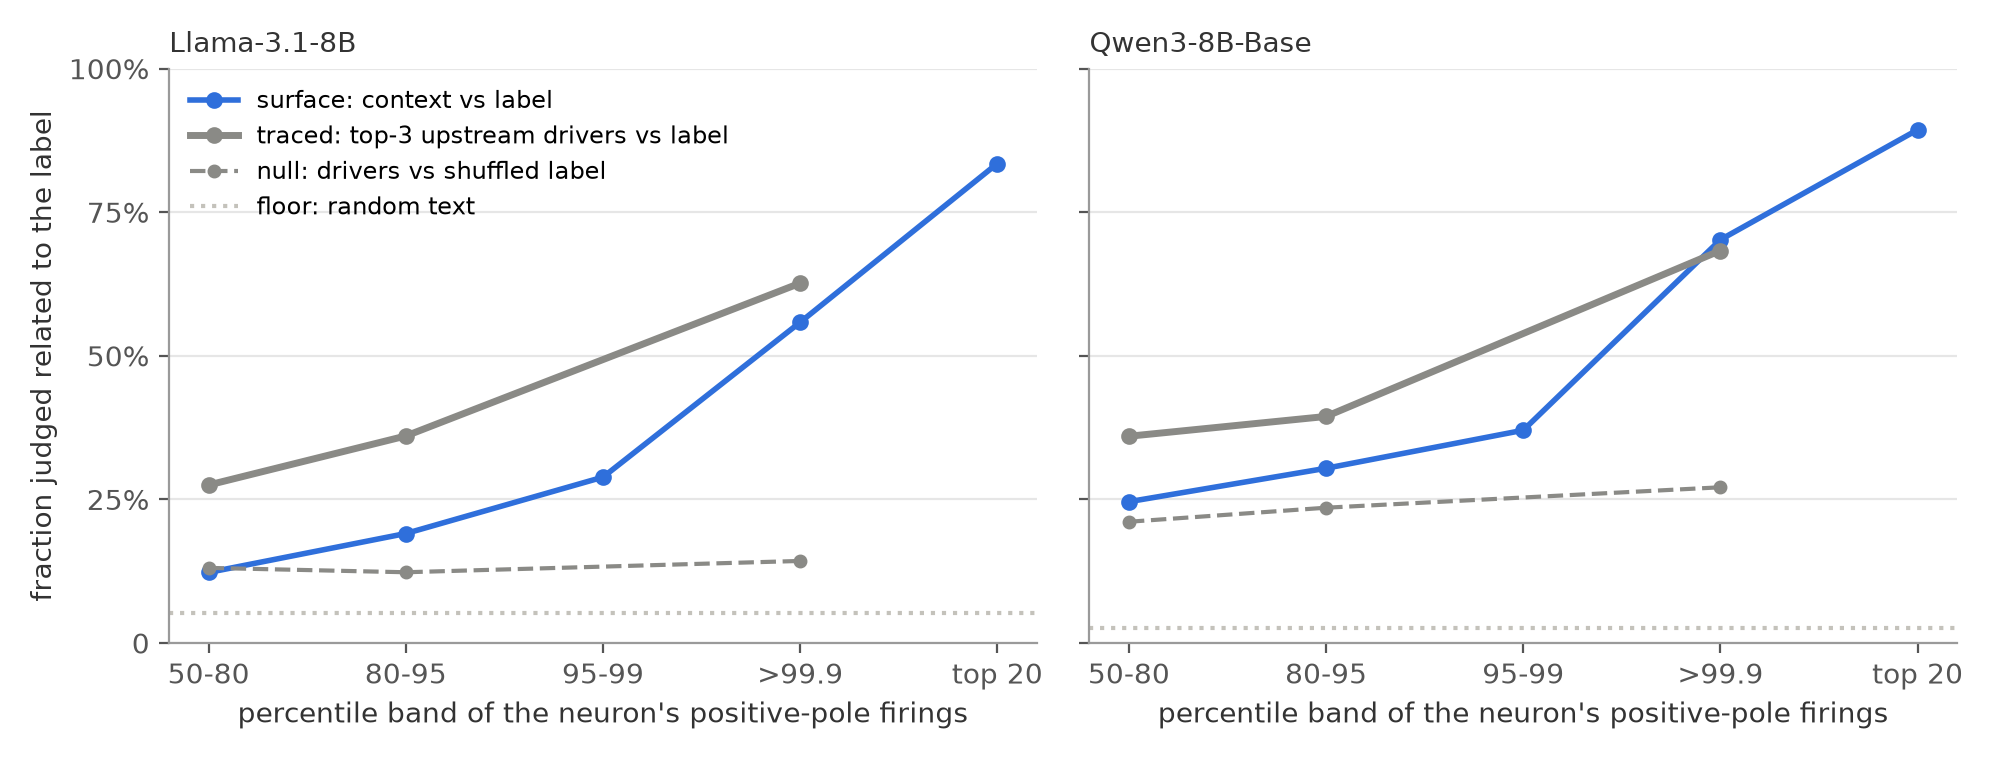
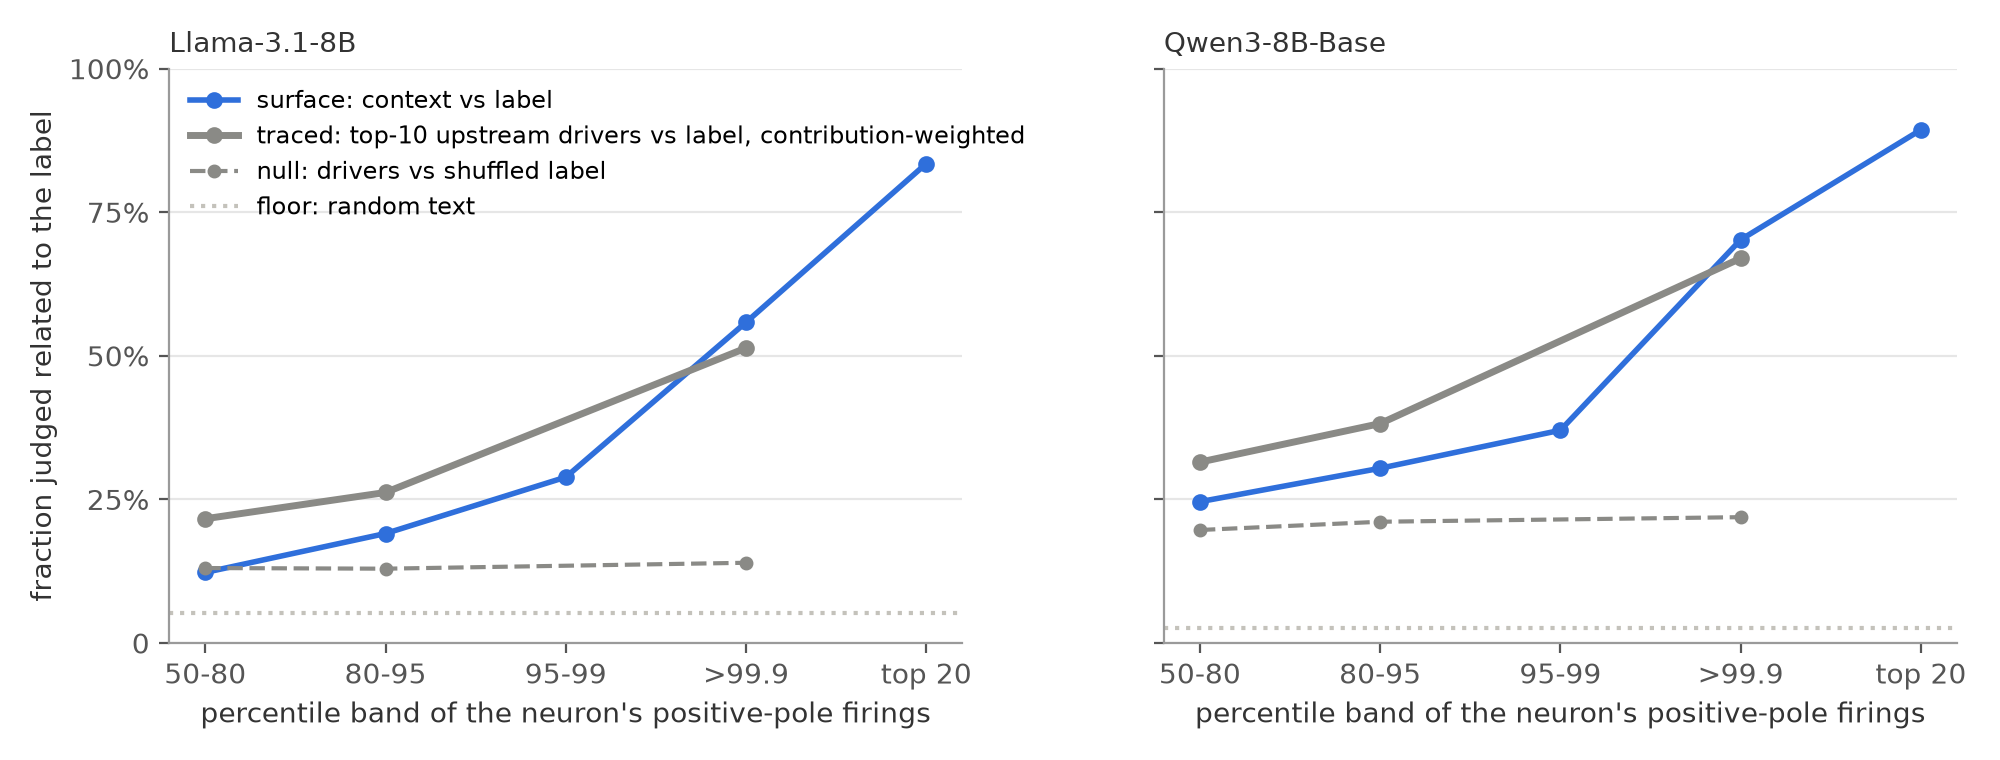
Figures: traced relatedness now from the top-10 attention-inclusive drivers, contribution-weighted

diff --git a/src/make_figures.py b/src/make_figures.py
@@ -15,11 +15,11 @@ def save(fig, name): fig.tight_layout(); fig.savefig(os.path.join(ROOT, 'figures
 fig, axes = plt.subplots(1, 2, figsize=(10, 3.8), sharey=True)
 bands = ['50-80', '80-95', '95-99', '>99.9', 'top 20']
 for ax, (tag, label) in zip(axes, TAGS):
-    s = rd(tag, 'semantic_summary.json')['all']; d = rd(tag, 'driver_summary.json')
+    s = rd(tag, 'semantic_summary.json')['all']; d = rd(tag, 'driver_summary_full.json')
     surf = [s['band0']['related'], s['band1']['related'], s['band2']['related'], s['band3']['related'], s['top']['related']]
     ax.plot(range(5), surf, '-o', color=ACC, lw=2, ms=5, label='surface: context vs label')
-    tx = [0, 1, 3]; ax.plot(tx, [d['b50_80_real']['related'], d['b80_95_real']['related'], d['strong_real']['related']], '-o', color=GREY, lw=2.5, ms=5, label='traced: top-3 upstream drivers vs label')
-    ax.plot(tx, [d['b50_80_null']['related'], d['b80_95_null']['related'], d['strong_null']['related']], '--o', color=GREY, lw=1.5, ms=4, label='null: drivers vs shuffled label')
+    tx = [0, 1, 3]; ax.plot(tx, [d['b50_80_real_weighted']['contrib_weighted_related'], d['b80_95_real_weighted']['contrib_weighted_related'], d['strong_real_weighted']['contrib_weighted_related']], '-o', color=GREY, lw=2.5, ms=5, label='traced: top-10 upstream drivers vs label, contribution-weighted')
+    ax.plot(tx, [d['b50_80_null_weighted']['contrib_weighted_related'], d['b80_95_null_weighted']['contrib_weighted_related'], d['strong_null_weighted']['contrib_weighted_related']], '--o', color=GREY, lw=1.5, ms=4, label='null: drivers vs shuffled label')
     ax.axhline(s['random']['related'], ls=':', color=GREY2, lw=1.5, label='floor: random text')
     ax.set_xticks(range(5)); ax.set_xticklabels(bands); ax.set_ylim(0, 1); ax.set_yticks([0, .25, .5, .75, 1]); ax.set_yticklabels(['0', '25%', '50%', '75%', '100%'])
     ax.set_xlabel("percentile band of the neuron's positive-pole firings"); ax.set_title(label, loc='left', fontsize=10, color='#333'); ax.grid(axis='y', color='#e6e6e6')
@@ -31,16 +31,17 @@ save(fig, 'relatedness_by_band.png')
 for which in ['surface', 'traced']:
     fig, axes = plt.subplots(1, 2, figsize=(10, 3.8), sharey=True)
     for ax, (tag, label) in zip(axes, TAGS):
-        s = rd(tag, 'semantic_summary.json')['all']; d = rd(tag, 'driver_summary.json')
+        s = rd(tag, 'semantic_summary.json')['all']; d = rd(tag, 'driver_summary_full.json')
         if which == 'surface':
             surf = [s['band0']['related'], s['band1']['related'], s['band2']['related'], s['band3']['related'], s['top']['related']]
             ax.plot(range(5), surf, '-o', color=ACC, lw=2, ms=6, label="the firing's context, scored against the neuron's description")
             ax.axhline(s['random']['related'], ls=':', color=GREY, lw=1.5, label='floor: random text scored the same way')
             ax.set_xticks(range(5)); ax.set_xticklabels(['50-80', '80-95', '95-99', '>99.9', 'top 20\n(source of the\ndescription)']); ax.set_xlabel("percentile band of the neuron's positive-pole firings")
         else:
-            tx = [0, 1, 2]
-            ax.plot(tx, [d['b50_80_real']['related'], d['b80_95_real']['related'], d['strong_real']['related']], '-o', color=ACC, lw=2, ms=6, label="top-3 upstream drivers' descriptions vs the neuron's description")
-            ax.plot(tx, [d['b50_80_null']['related'], d['b80_95_null']['related'], d['strong_null']['related']], '--o', color=GREY, lw=1.5, ms=5, label="null: same drivers vs a random other neuron's description")
+            tx = [0, 1, 2]; B = ['b50_80', 'b80_95', 'strong']
+            ax.plot(tx, [d[f'{b}_real_weighted']['contrib_weighted_related'] for b in B], '-o', color=ACC, lw=2, ms=6, label="top-10 upstream drivers (direct + via attention), weighted by contribution")
+            ax.plot(tx, [d[f'{b}_real']['related'] for b in B], '-o', color=ACC, lw=1.2, ms=4, alpha=0.5, label='same, unweighted per-driver rate')
+            ax.plot(tx, [d[f'{b}_null_weighted']['contrib_weighted_related'] for b in B], '--o', color=GREY, lw=1.5, ms=5, label="null: same drivers vs a random other neuron's description")
             ax.set_xticks(tx); ax.set_xticklabels(['50-80', '80-95', '>99.9']); ax.set_xlabel("percentile band of the downstream firing")
         ax.set_ylim(0, 1); ax.set_yticks([0, .25, .5, .75, 1]); ax.set_yticklabels(['0', '25%', '50%', '75%', '100%']); ax.set_title(label, loc='left', fontsize=10, color='#333'); ax.grid(axis='y', color='#e6e6e6')
     axes[0].set_ylabel('fraction judged related'); axes[0].legend(frameon=False, fontsize=8.5, loc='upper left')
